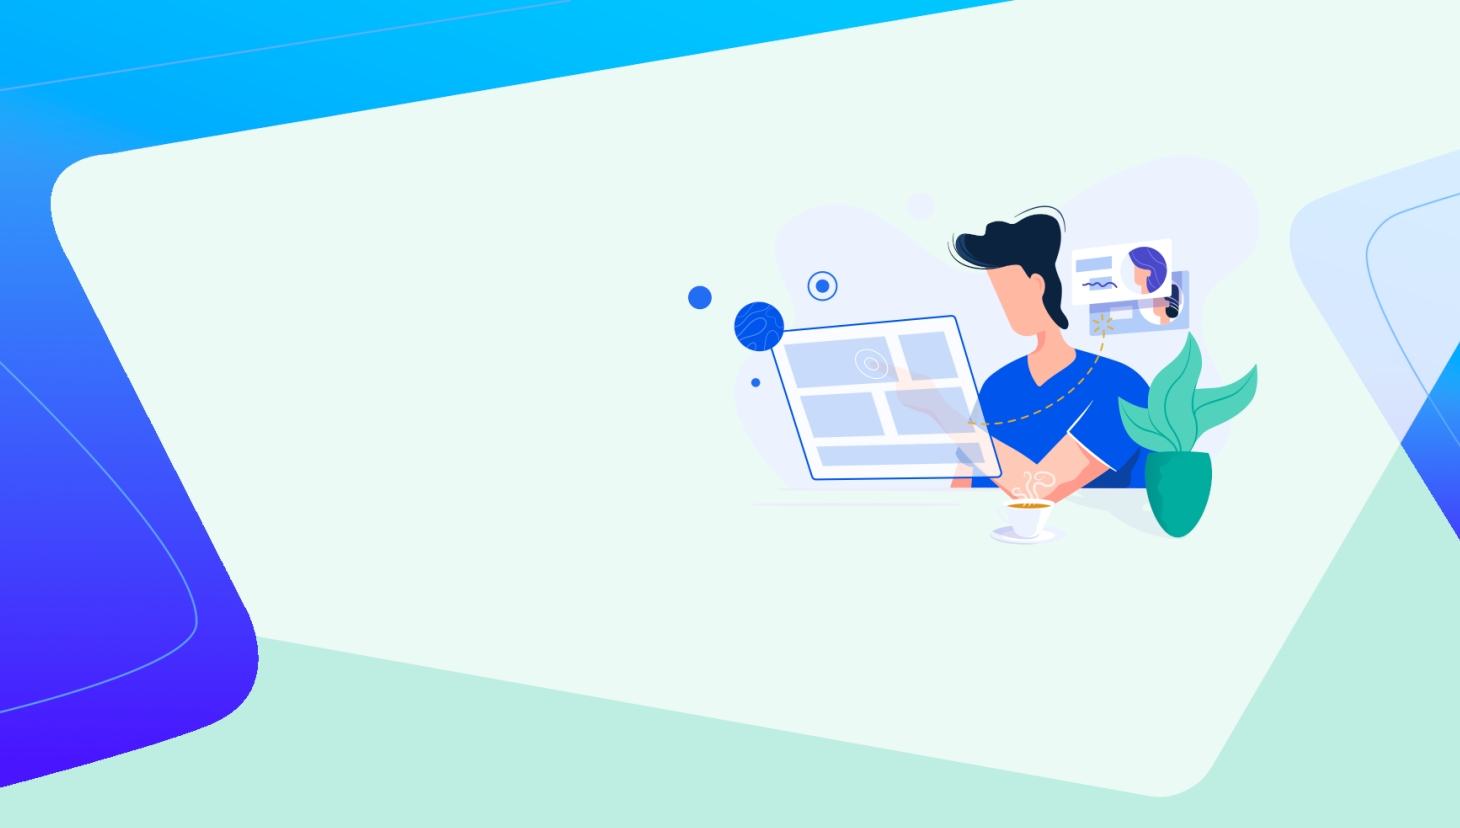
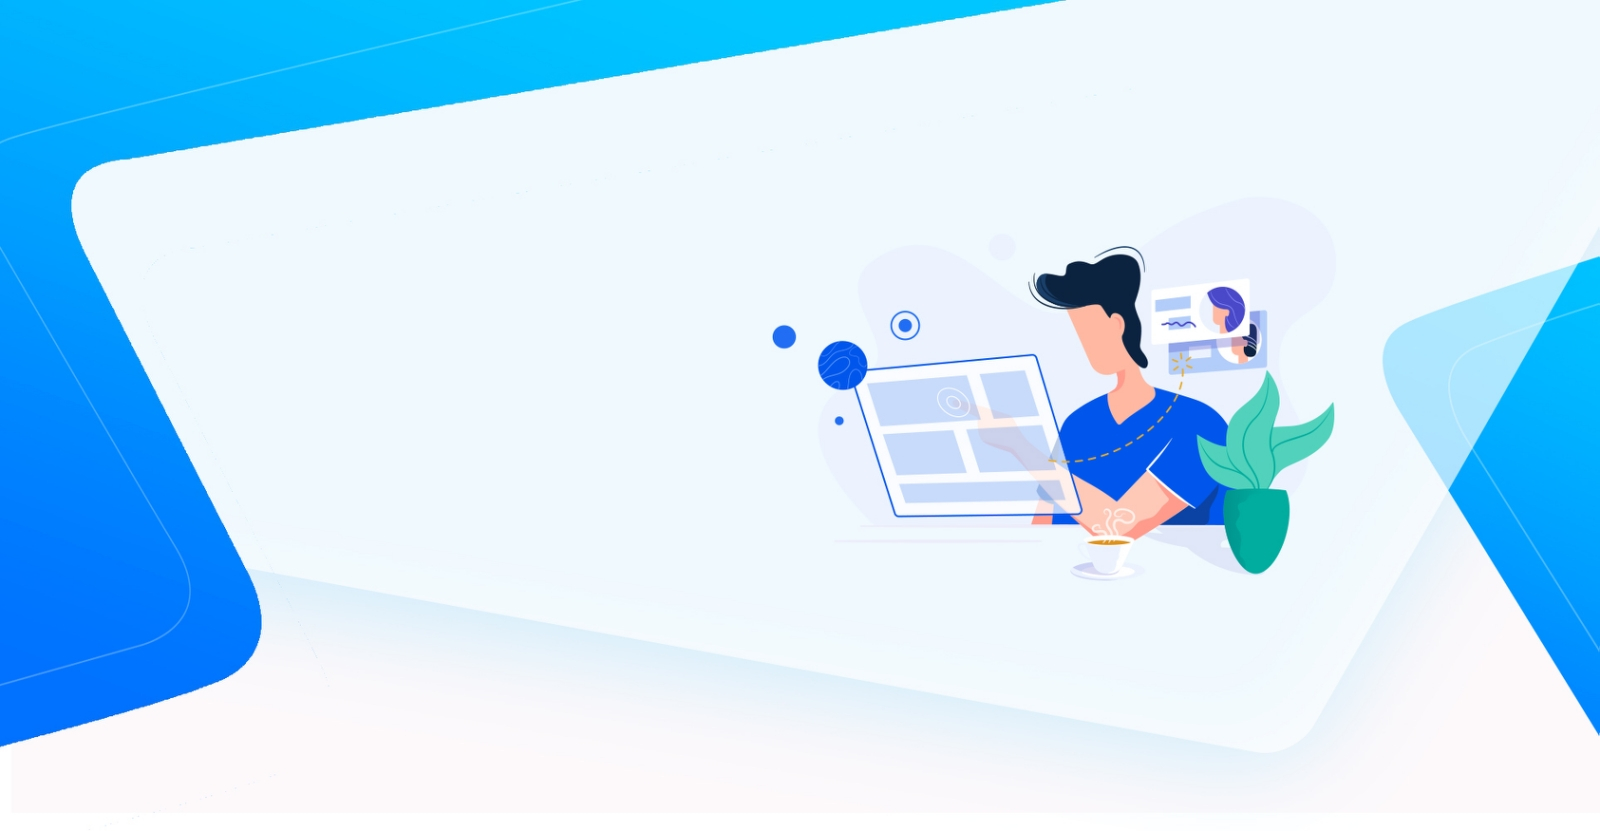
add services panel card

diff --git a/src/components/Sevices.jsx b/src/components/Sevices.jsx
@@ -1,32 +1,47 @@
 import React from 'react';
-import Button from 'react-bootstrap/Button';
-import Card from 'react-bootstrap/Card';
+import { Card } from 'react-bootstrap';
+import _ from 'lodash';
+import './css/Services.css';
+import progresiv from './css/imgCards/progresiv.png';
+import qualityContent from './css/imgCards/qualityContent.png';
+import research from './css/imgCards/research.png';
+import toDo from './css/imgCards/toDo.png';
 
 export default class Sevices extends React.Component {
   renderCardServices() {
-    
-    return (
-      <Card>
-        <Card.Header>Featured</Card.Header>
+    const cards = [
+      { img: progresiv, text: 'To-do list for every day' },
+      { img: qualityContent, text: 'Research for fresh content' },
+      { img: research, text: 'Progresive results' },
+      { img: toDo, text: 'Quality content & clean digital image' },
+    ];
+
+    return cards.map(({ img, text }) => (
+      <Card className="cardElement CardImg" key={_.uniqueId()} style={{ border: 'none' }}>
+        <Card.Img variant="top" src={img} />
         <Card.Body>
-          <Card.Title>Special title treatment</Card.Title>
           <Card.Text>
-            With supporting text below as a natural lead-in to additional content.
+            {text}
           </Card.Text>
-          <Button variant="primary">Go somewhere</Button>
         </Card.Body>
       </Card>
-    );
+    ));
   }
 
   render() {
 
     return (
-      <div>
-        <div>
-          How we can help you?
-        </div>
-        <div></div>
+      <div className="boxCards">
+        <Card className="cardElement" style={{width: 200 + 'px', border: 'none'}}>
+          <Card.Body>
+            <Card.Title><b>How we can help you?</b></Card.Title>
+            <Card.Text style={{textAlign: 'start'}}>
+              Lorem ipsum dolor sit amet, consectetur adipiscing elit sed do.
+            </Card.Text>
+            <a href="#" className="btn btn-1" style={{color: 'white'}}>Our Services ></a>
+          </Card.Body>
+        </Card>
+        {this.renderCardServices()}
       </div>
     );
   }

diff --git a/src/components/NavBar.jsx b/src/components/NavBar.jsx
@@ -7,13 +7,17 @@ import playMarketIcon from '../img/google-play-computer-icons.jpg';
 import appStore from '../img/app-store-icon-logo.png';
 
 export default class NavBar extends React.Component {
-
   render() {
-     
+    const iconStyle = {
+      width: 120 + 'px',
+      height: 35 + 'px',
+      marginRight: 20 + 'px',
+    }; 
+
     return (
       <div id="bgNavs">
-        <Navbar id="navsPanel">
-          <Navbar.Brand href="#" className="brandNav">
+        <Navbar id="navsPanel" fixed="top">
+          <Navbar.Brand href="#" className="brandNav" style={{color: 'white'}}>
             <img
               alt="logo"
               src={logo}
@@ -39,14 +43,14 @@ export default class NavBar extends React.Component {
             <h3>Social Media Presence</h3>
           </div>
           <div>
-            <p>
+            <p style={{fontSize: 13 + 'px'}}>
               One of the most used Social Media Management Platform wich have a offer
               with 25% DISCOUNT for all services in week-ends.
             </p>
           </div>
           <div className="buttonLinks">
-            <img src={playMarketIcon}></img>
-            <img src={appStore}></img>
+            <a href="#"><img style={iconStyle} src={playMarketIcon}></img></a>
+            <a href="#"><img style={iconStyle} src={appStore}></img></a>
           </div>
         </div>
       </div>

diff --git a/src/components/css/Services.css b/src/components/css/Services.css
@@ -1,0 +1,50 @@
+.boxCards{
+  display: flex;
+  flex-direction: row;
+  justify-content: space-between;
+  align-items: center;
+  align-content: center;
+  flex-wrap: nowrap;
+  width: 80vw;
+  margin: 0 auto;
+  min-height: 40vh;
+}
+.btn{
+  /* flex: 1 1 auto; */
+  margin: 10px;
+  padding: 30px;
+  text-align: center;
+  text-transform: uppercase;
+  transition: 0.5s;
+  background-size: 100% auto;
+  background: rgb(0,195,255);
+  background: linear-gradient(90deg, rgba(0,195,255,1) 0%, rgba(0,8,155,1) 100%);
+  color: blue;
+  box-shadow: 0 0 20px #eee;
+  border-radius: 50px;
+  height: fit-content;;
+  width: 100%;
+  padding: 15px 10px;
+  text-decoration: none;
+}
+.btn:hover {
+  background-position: right center;
+  box-shadow: 0 0 20px #00c3ff;
+  background: rgb(0,8,155);
+  background: linear-gradient(90deg, rgba(0,8,155,1) 0%, rgba(0,195,255,1) 100%);
+}
+.cardElement{
+  border: 'none';
+  width: 180px;
+  height: 150px;
+}
+.card-body{
+  padding-top: 0;
+}
+.card-text{
+  text-align: center;
+  font-weight: 200;
+}
+.CardImg{
+  padding-top: 30px;
+}

diff --git a/src/components/css/NavBar.css b/src/components/css/NavBar.css
@@ -1,10 +1,12 @@
 #bgNavs{
-  background-image: url('./img/vHeader.jpg');
+  background-image: url('./imgNav/vHeader.jpg');
   height: 700px;
   background-repeat: no-repeat;
   background-size: cover;
   padding-top: 30px;
   background-position: center;
+  max-width: 100%;
+  max-height: 100%;
 }
 #navsPanel{
   display: flex;
@@ -14,10 +16,7 @@
   flex-basis: 25%;
   text-align: end;
   color: white;
-  text-shadow: 2px 2px gray;
-}
-.brandNav:hover{
-  color: black;
+  flex-shrink: 2;
 }
 #basic-navbar-nav{
   flex-basis: 30%;
@@ -28,15 +27,10 @@
   margin: 0 10px;
 }
 .navTextWithAppLinks{
-  margin: 200px 0 0 240px;
-  width: 420px;
-  height: 250px;
+  margin: 10% 0 0 19%;
+  width: 35vw;
+  height: 300px;
   display: flex;
   flex-direction: column;
   justify-content: space-around;
-}
-.buttonLinks>img{
-  width: 120px;
-  height: 35;
-  margin-right: 20px;
 }
